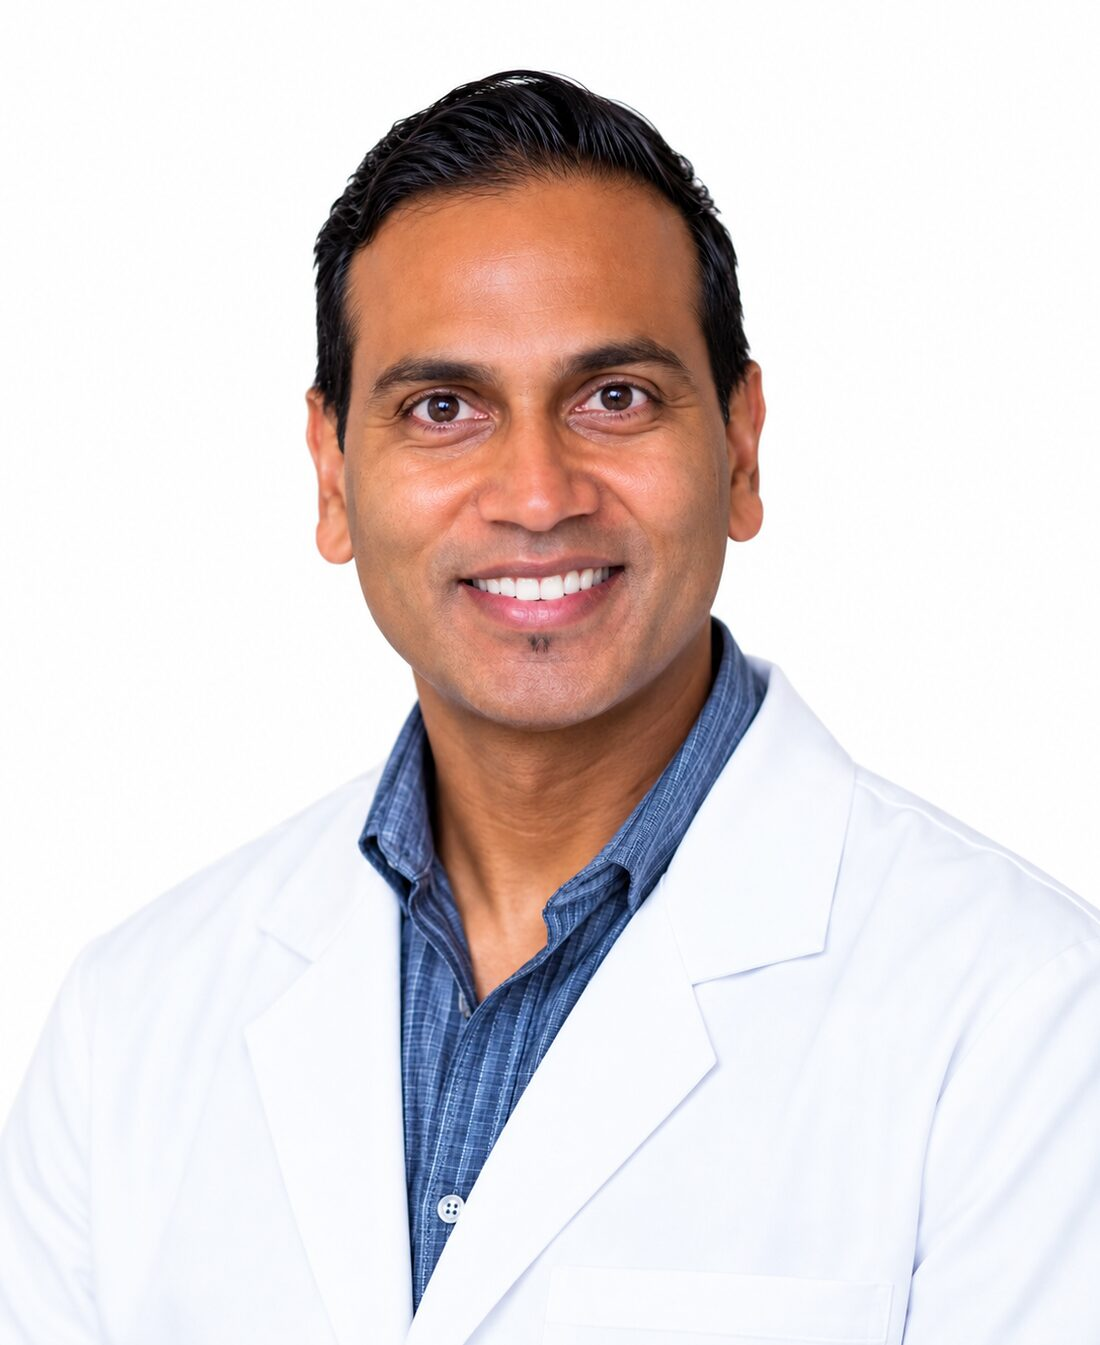
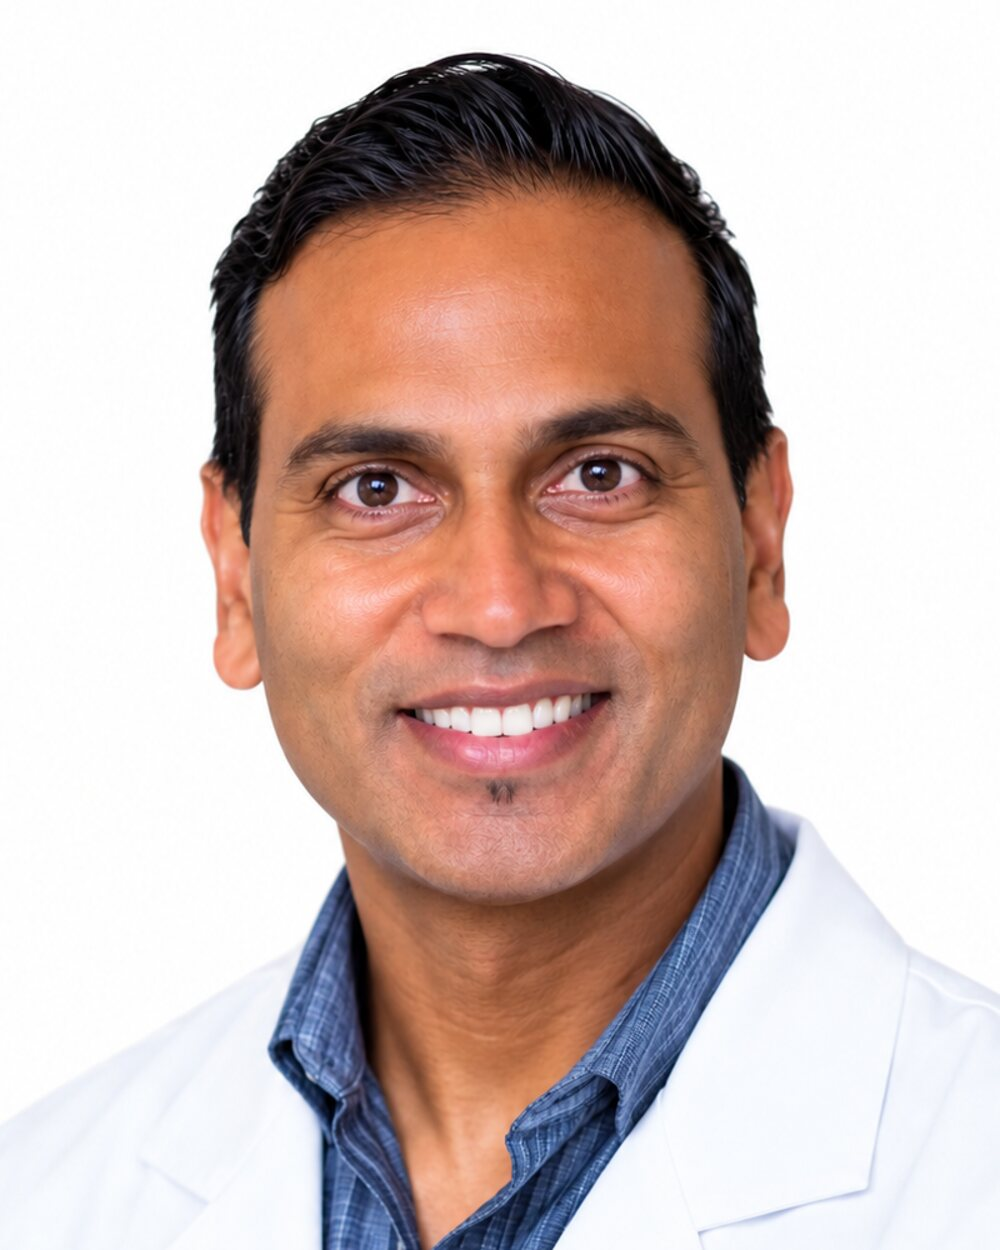
Build 13: tighter headshot crop
Claude-Session: https://claude.ai/code/session_01NEbCmS8rdNaJKogz5cju5V

diff --git a/src/partials/head.html b/src/partials/head.html
@@ -182,7 +182,7 @@ p{margin:0}
 
 /* ---------- Doctor photo (falls back to the mark until a photo is added) ---------- */
 .photo{position:relative;border-radius:var(--r-lg);overflow:hidden;background:var(--acc-tint);isolation:isolate}
-.photo img{position:absolute;inset:0;width:100%;height:100%;object-fit:cover;object-position:50% 20%;mix-blend-mode:multiply}
+.photo img{position:absolute;inset:0;width:100%;height:100%;object-fit:cover;object-position:50% 0%;mix-blend-mode:multiply}
 .photo .photo-fb{position:absolute;inset:0;display:flex;align-items:center;justify-content:center;color:var(--acc);z-index:-1}
 .photo:has(img) .photo-fb{display:none}
 .photo .photo-fb svg{width:42%;opacity:.35}
